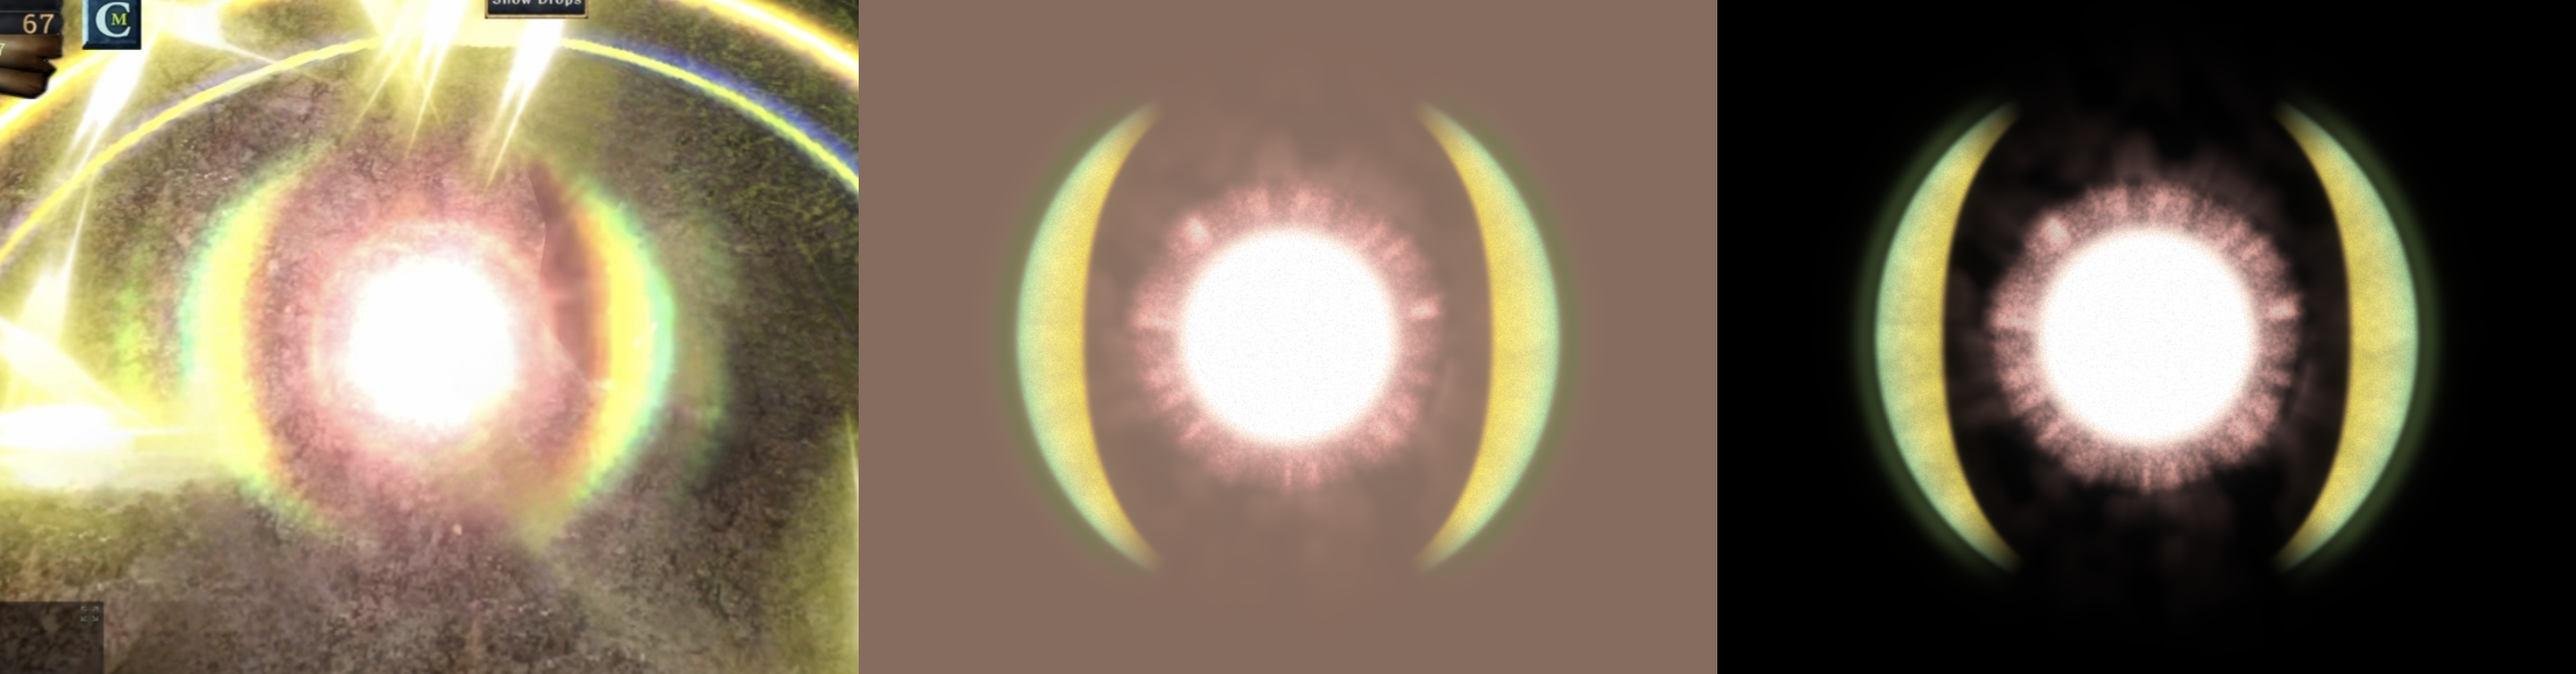
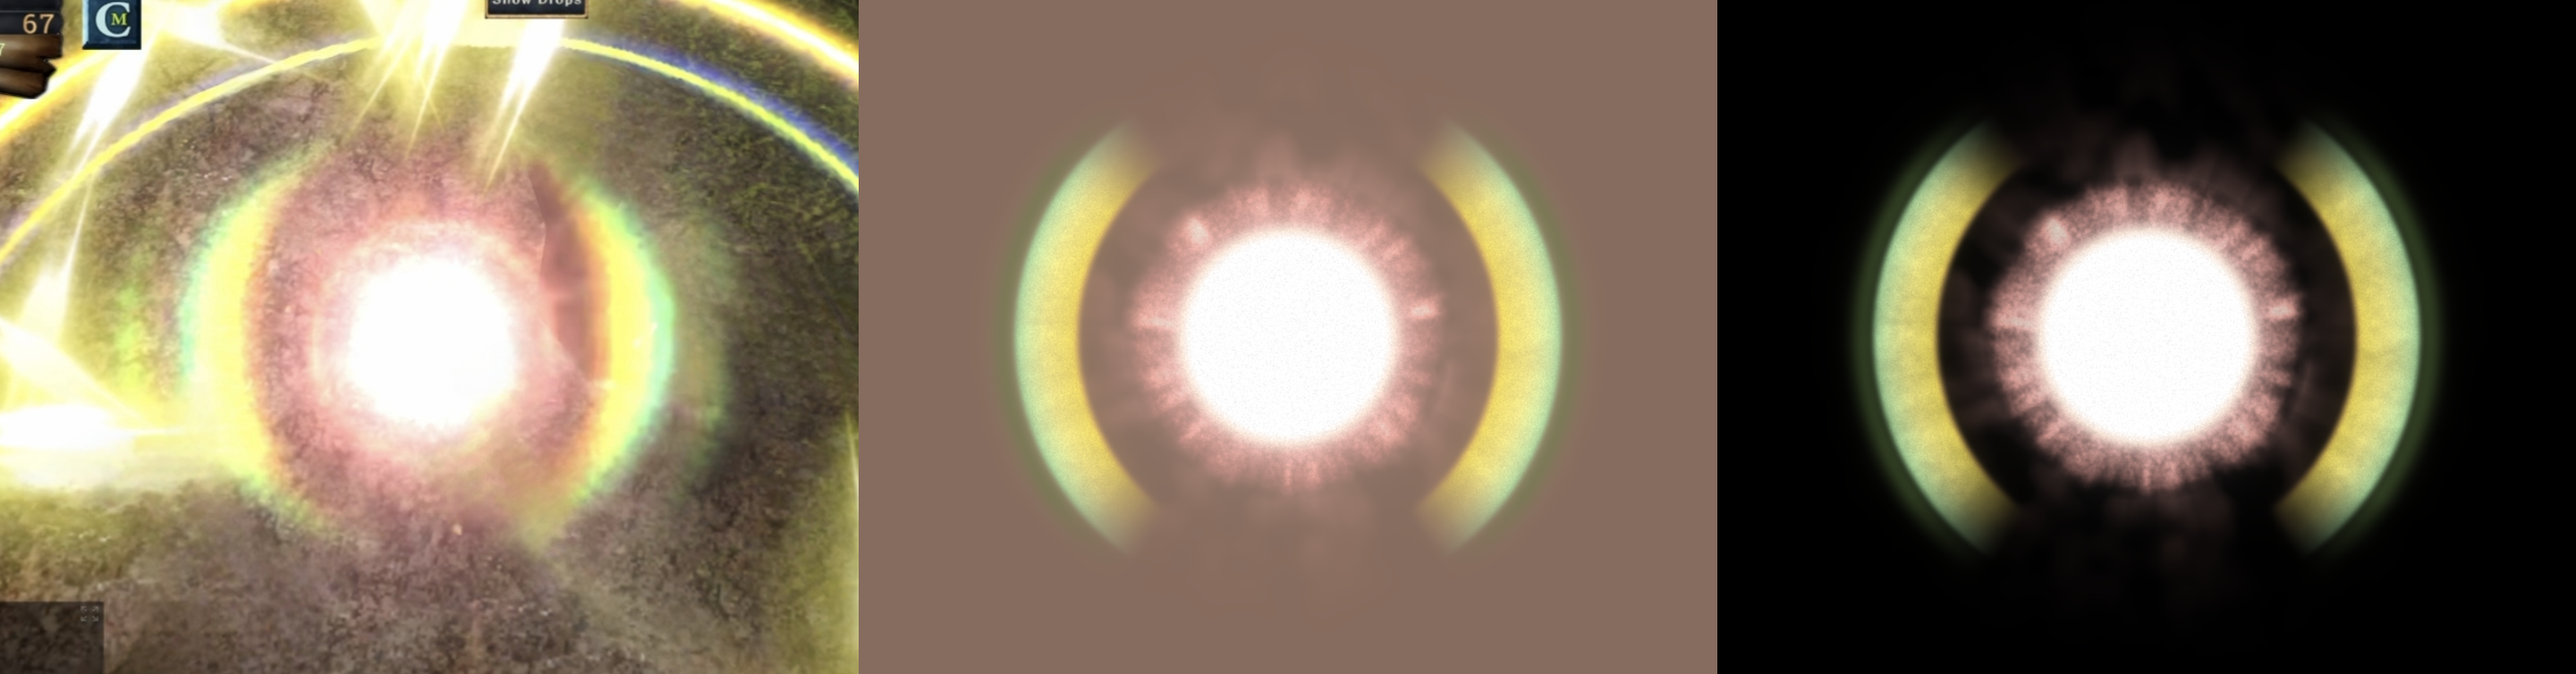
Efekt 10 küre: parantezler dış halkanın parçası gibi (sabit yarıçap, üstü-altı silinmiş)
Claude-Session: https://claude.ai/code/session_01E9c1WiJsMc9gXSJZ9D4z6g

diff --git a/arayuz/araclar/efekt10/kure.py b/arayuz/araclar/efekt10/kure.py
@@ -65,9 +65,9 @@ sn_col=np.stack([np.interp(R,[150,200,260,330],[rk(c)[k] for c in ("#E8A89C","#D
 uzerine(sn_col,sn_al)
 # parantezler: dis kenar sabit yay, ic kenar ortada iceri siskin (sari kisim parantezin icinde -> orta kalin), uclar incelip solar
 yan=np.abs(np.cos(A)); aci=np.degrees(np.arccos(np.clip(yan,0,1)))
-uc=np.clip((62-aci)/18,0,1)**1.2
-dis_r=268; kal=20+52*np.clip(np.cos(np.radians(aci*1.45)),0,1)**1.3           # orta ~72, uclar ~20
-ic_r=dis_r-kal
+uc=np.clip((56-aci)/22,0,1)**1.3                                             # ust ve alt silinmis gibi: uclar incelmez, solarak kaybolur
+orta_r=236; kal=58+10*np.cos(np.radians(aci))                                  # sabit yaricapli halka parcasi (ortasi biraz kalin)
+ic_r=orta_r-kal/2; dis_r=orta_r+kal/2
 u=(R-ic_r)/kal
 renkler=[(0.0,"#F2B860"),(0.14,"#FCE65E"),(0.5,"#FEF486"),(0.72,"#E2F8A0"),(1.0,"#A8E8B0")]   # ic genis sari -> acik yesil -> yesil (dis)
 uu=np.clip(u,0,1); col=np.stack([np.interp(uu,[q[0] for q in renkler],[rk(q[1])[c] for q in renkler]) for c in range(3)],-1)
